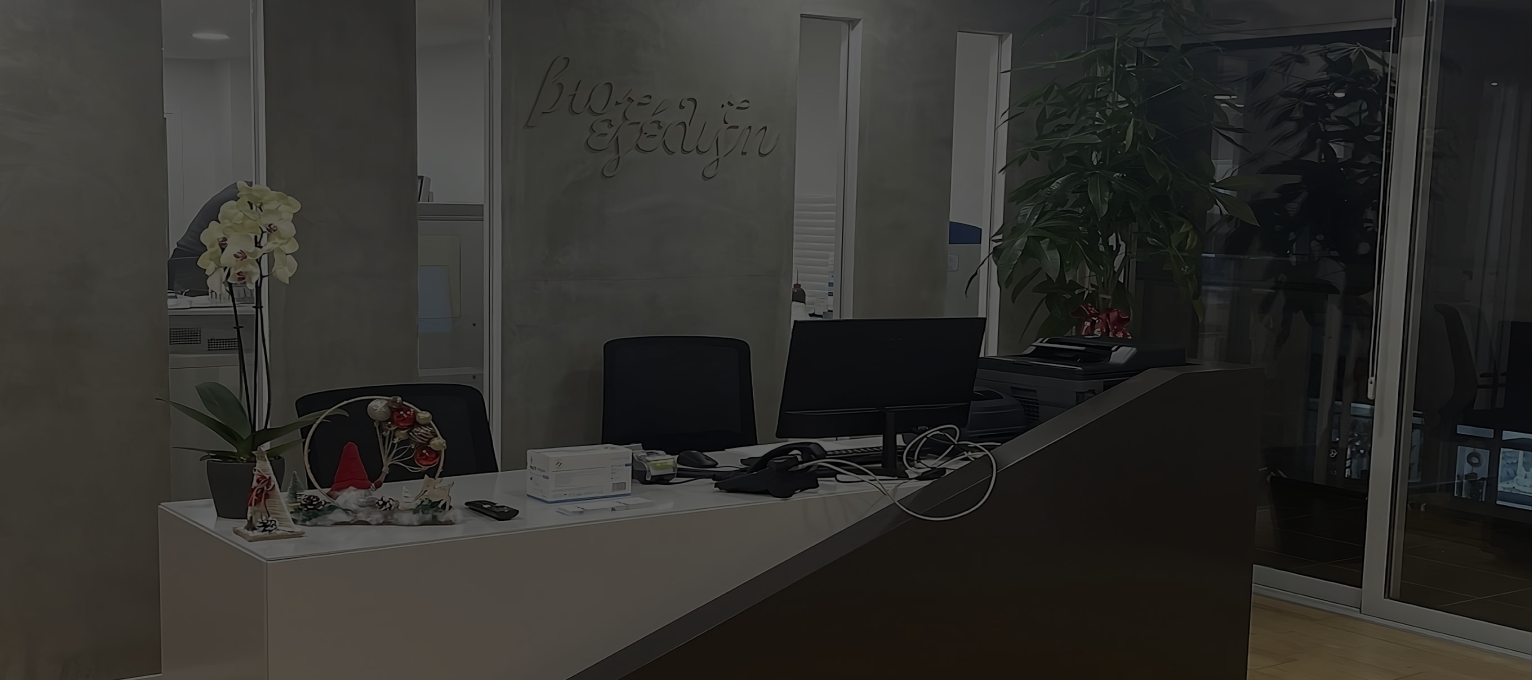
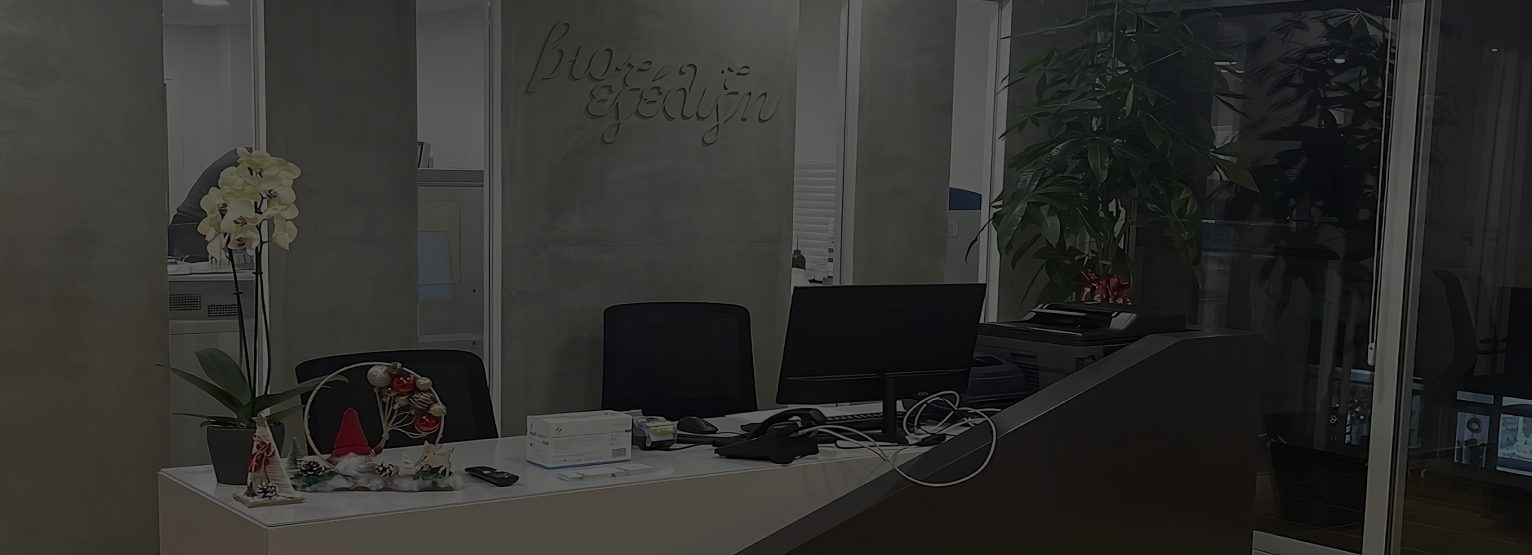
boooo

diff --git a/public/index.html b/public/index.html
@@ -120,8 +120,27 @@ typesetting industry.</span>
 
   </div>
 
- 
-            
+   
+            <section id="offers">
+    <div class="container">
+        <div class="content">
+            <h2 class="title">O<span id="ff">f</span>fers</h2>
+            <p class="description"></p>
+            <div class="offers-wrapper">
+                <div class="layer1 layer visible">
+                    
+                </div>
+                <div class="layer2 layer">
+
+                </div>
+            </div>
+        </div>
+        <div class="offer-highlighted">
+            <img class="img1 img visible" alt="">
+            <img class="img2 img" alt="">
+        </div>
+    </div>
+</section>
             <section id="faq">
     <div class="container">
         <div class="question-mark-container">
@@ -683,21 +702,6 @@ typesetting industry.</span>
         </div>
     </div>
 </section>
-            <div id="banner">
-    <div class="banner-container">
-        <div class="title-wrapper">
-            <h1 class="title">Meet the Team</h1>
-        </div>
-        <div class="content">
-            <div class="content-container">
-                    <img style="shape-outside: url(/assets/img/Illustration.svg)" src="/assets/img/Illustration.svg" alt="">
-                <div class="text-wrapper">
-                    <span class="text">Lorem ipsum dolor sit amet consectetur adipisicing elit. Facere natus saepe rerum dolorem sit voluptas hic qui fugiat accusamus fuga.</span>
-                </div>
-            </div>
-        </div>
-    </div>
-</div>
             <section class="contactusbody">
    <h3>CONTACT US</h3>
    <ul class="option">
@@ -727,7 +731,22 @@ typesetting industry.</span>
    <button><a href="#">Get in touch</a></button>
 </section>
 
-            <section id="team-members">
+            <!-- <div id="banner">
+    <div class="banner-container">
+        <div class="title-wrapper">
+            <h1 class="title">Meet the Team</h1>
+        </div>
+        <div class="content">
+            <div class="content-container">
+                    <img style="shape-outside: url(/assets/img/Illustration.svg)" src="/assets/img/Illustration.svg" alt="">
+                <div class="text-wrapper">
+                    <span class="text">Lorem ipsum dolor sit amet consectetur adipisicing elit. Facere natus saepe rerum dolorem sit voluptas hic qui fugiat accusamus fuga.</span>
+                </div>
+            </div>
+        </div>
+    </div>
+</div> -->
+            <!-- <section id="team-members">
     <div class="container">
         <div class="header">
             <h2 class="title">Team Members</h2>
@@ -757,28 +776,10 @@ typesetting industry.</span>
             </div>
         </div>
     </div>
-</section>
+</section> -->
+            <!--  -->
             
-            <section id="offers">
-    <div class="container">
-        <div class="content">
-            <h2 class="title">O<span id="ff">f</span>fers</h2>
-            <p class="description"></p>
-            <div class="offers-wrapper">
-                <div class="layer1 layer visible">
-                    
-                </div>
-                <div class="layer2 layer">
-
-                </div>
-            </div>
-        </div>
-        <div class="offer-highlighted">
-            <img class="img1 img visible" alt="">
-            <img class="img2 img" alt="">
-        </div>
-    </div>
-</section>
+            
         </main>
         
         <footer>

diff --git a/src/index.html b/src/index.html
@@ -31,14 +31,15 @@ bannerImage: /assets/img/Illustration.svg
     <body style="background-color: #F7F8FF">
         {% include "layouts/navbarEN.html" %}
         <main>
-            {% include "layouts/herosection.html" %}
-            
-            {% include "layouts/faqEN.html" %}
-            {% include "layouts/pageBannerEN.html" %}
-            {% include "layouts/contactusEN.html" %}
-            {% include "layouts/teammembersEN.html" %}
-            {% include "layouts/contactus-withGMapsEN.html" %}
+            {% include "layouts/herosection.html" %}  
             {% include "layouts/offersEN.html" %}
+            {% include "layouts/faqEN.html" %}
+            {% include "layouts/contactusEN.html" %}
+            <!-- {% include "layouts/pageBannerEN.html" %} -->
+            <!-- {% include "layouts/teammembersEN.html" %} -->
+            <!-- {% include "layouts/contactus-withGMapsEN.html" %} -->
+            
+            
         </main>
         
         {% include "layouts/footerEN.html" %}

diff --git a/assets/css/aboutus.css b/assets/css/aboutus.css
@@ -58,21 +58,17 @@
     #members h1{
         font-size: 2rem;
     }
-<<<<<<< HEAD
 
     #company2 h1{
         font-size: 2rem;
     }
 
-    .about_the_member {
-=======
+    
     .about_the_company{
->>>>>>> 3318abcd8b10ba5446b724af02c693cc826b6b7e
         display: flex;
         flex-direction: column;
         align-items: center;
         justify-content: center;
-<<<<<<< HEAD
         padding: 10px;
         row-gap: 50px;
         width: 60%;
@@ -117,17 +113,23 @@
         font-size: 1.2rem;
     }
 
-=======
+    .about_the_member {
+        display:flex;
         padding:10px;
-        row-gap: 10px;
+        flex-direction: column;
+        align-items: center;
+        justify-content: center;
+        row-gap: 20px;
         width:60%;
+    }
+    .about_the_member h2{
+        text-align: center;
     }
 
     .about_the_company p {
         font-size: 1.5rem;
     }
-   
->>>>>>> 3318abcd8b10ba5446b724af02c693cc826b6b7e
+
 }
 
 @media only screen and (min-width: 768px) {}

diff --git a/public/assets/css/aboutus.css b/public/assets/css/aboutus.css
@@ -58,21 +58,17 @@
     #members h1{
         font-size: 2rem;
     }
-<<<<<<< HEAD
 
     #company2 h1{
         font-size: 2rem;
     }
 
-    .about_the_member {
-=======
+    
     .about_the_company{
->>>>>>> 3318abcd8b10ba5446b724af02c693cc826b6b7e
         display: flex;
         flex-direction: column;
         align-items: center;
         justify-content: center;
-<<<<<<< HEAD
         padding: 10px;
         row-gap: 50px;
         width: 60%;
@@ -117,17 +113,23 @@
         font-size: 1.2rem;
     }
 
-=======
+    .about_the_member {
+        display:flex;
         padding:10px;
-        row-gap: 10px;
+        flex-direction: column;
+        align-items: center;
+        justify-content: center;
+        row-gap: 20px;
         width:60%;
+    }
+    .about_the_member h2{
+        text-align: center;
     }
 
     .about_the_company p {
         font-size: 1.5rem;
     }
-   
->>>>>>> 3318abcd8b10ba5446b724af02c693cc826b6b7e
+
 }
 
 @media only screen and (min-width: 768px) {}

diff --git a/assets/css/herosection.css b/assets/css/herosection.css
@@ -4,22 +4,24 @@
 
 .herosection img{
     width:100%;
+    position:relative;
+    top:-5vh;
 }
 
 .herosection h1{
     position:absolute;
     color:white;
     font-size: 5.3vw;
-    top:250px;
-    left:150px;
+    top:19vh;
+    left:7.8vw;
     padding:30px;
 }
 
 .herosection h2{
     position:absolute;
     color:white;
-    top:400px;
+    top:35vh;
     padding:30px;
-    left:150px;
+    left:7.8vw;
     font-size: 1.5vw;
 }

diff --git a/public/assets/css/herosection.css b/public/assets/css/herosection.css
@@ -4,14 +4,16 @@
 
 .herosection img{
     width:100%;
+    position:relative;
+    top:-5vh;
 }
 
 .herosection h1{
     position:absolute;
     color:white;
     font-size: 5.3vw;
-    top:20vh;
-    left:9.7vw;
+    top:19vh;
+    left:7.8vw;
     padding:30px;
 }
 
@@ -20,6 +22,6 @@
     color:white;
     top:35vh;
     padding:30px;
-    left:9.7vw;
+    left:7.8vw;
     font-size: 1.5vw;
 }

diff --git a/assets/css/services.css b/assets/css/services.css
@@ -7,8 +7,8 @@
     padding:10px;
     border-radius: 80px;
     width:60vw;
-    height:30ch;
+    height:25vh;
     position:relative;
-    top:-150px;
-    left:350px;
+    top:-16.4vh;
+    left:18.2vw;
 }

diff --git a/public/assets/css/services.css b/public/assets/css/services.css
@@ -7,8 +7,8 @@
     padding:10px;
     border-radius: 80px;
     width:60vw;
-    height:30vh;
+    height:25vh;
     position:relative;
-    top:-15vh;
-    left:20vw;
+    top:-16.4vh;
+    left:18.2vw;
 }

diff --git a/README.md b/README.md
@@ -83,3 +83,9 @@
 			</ul>
 
 **0.9.3:**  Added the hero section | E
+
+**0.9.4:**  <ul>
+               <li>Fixed the homepage | E</li>
+               <li>Fixed the herosection | E </li>
+			   <li>Fixed the aboutus page | E </li>
+</ul> 
